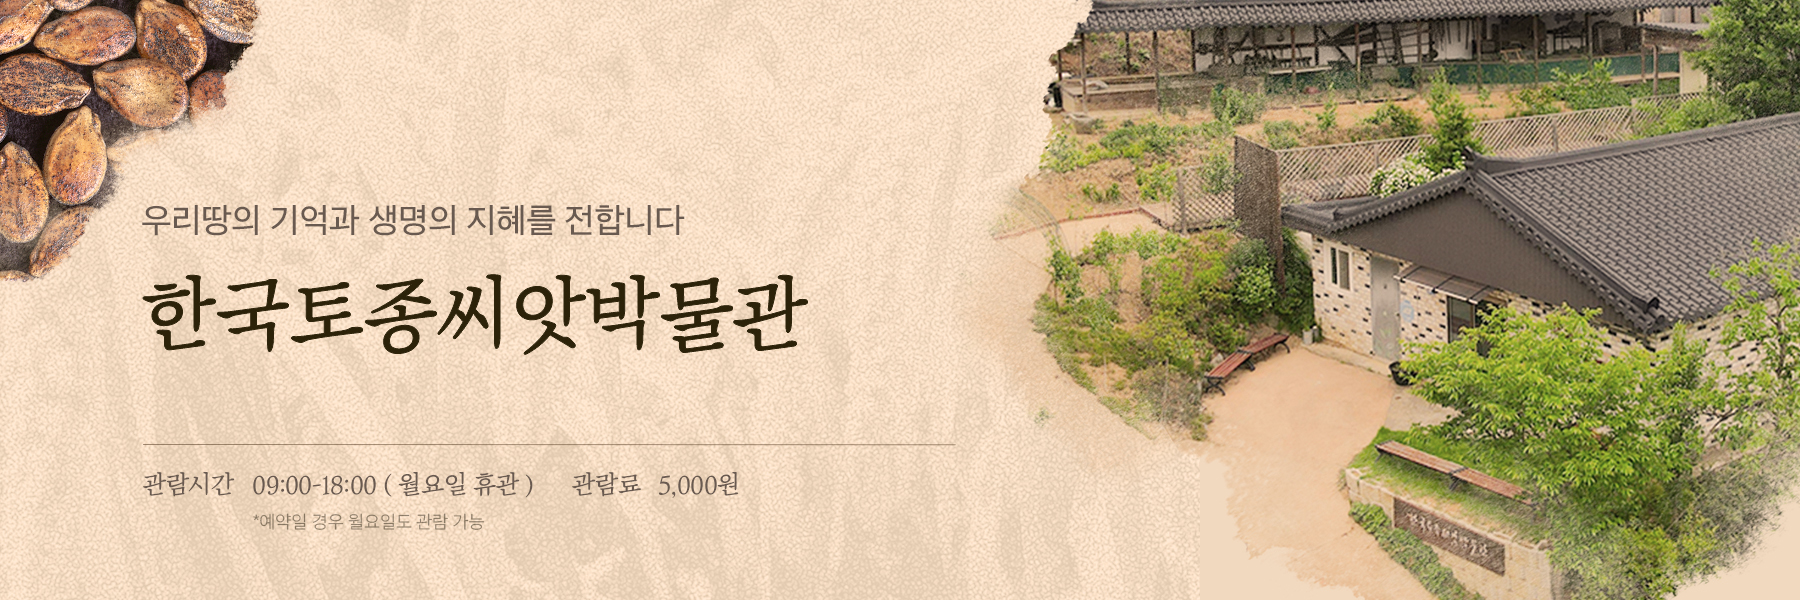
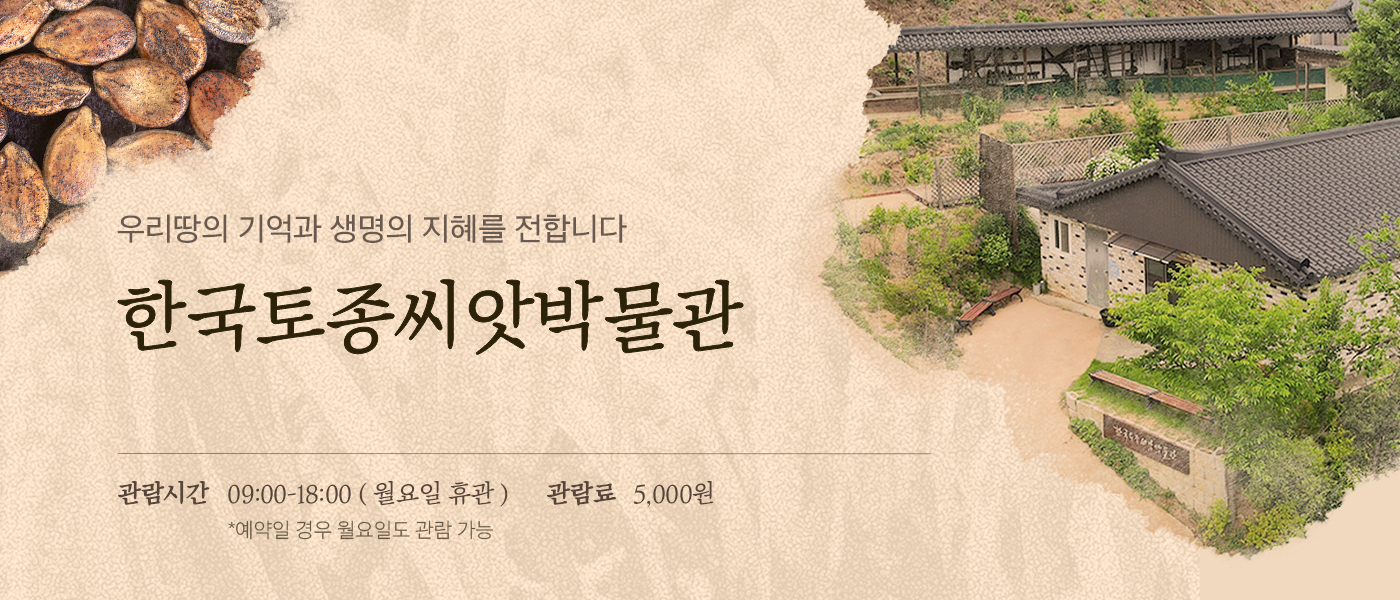
2026.01.06

diff --git a/src/components/layout/main/display.tsx b/src/components/layout/main/display.tsx
@@ -5,10 +5,11 @@ export const Display = () => {
     const navigate = useNavigate();
 
     const displayInfo = [
-        {src: '/display/display1.png', text1: '상설전시', text2: '씨앗 박물관 상설전시 1', text3: '2025-01-01 ~ 2025-12-31', link: 'pdisplay'},
-        {src: '/display/display2.png', text1: '상설전시', text2: '씨앗 박물관 상설전시 2', text3: '2025-04-01 ~ 2025-12-31', link: 'pdisplay'},
-        {src: '/display/display3.png', text1: '특별전시', text2: '씨앗 박물관 특별전시 3', text3: '2025-07-01 ~ 2025-12-31', link: 'sdisplay'},
-        {src: '/display/display3.png', text1: '특별전시', text2: '씨앗 박물관 특별전시 3', text3: '2025-07-01 ~ 2025-12-31', link: 'sdisplay'},
+        {src: '/display/1.jpg', text1: '상설전시', text2: '상설전시', text3: '', link: '/seed/pdisplay'},
+        {src: '/display/2.jpg', text1: '상설전시', text2: '근대 농기구 전시', text3: '', link: '/seed/fdisplay'},
+        {src: '/display/3.jpg', text1: '상설전시', text2: '박물관 속의 박물관', text3: '', link: '/seed/museum'},
+        {src: '/display/4.jpg', text1: '상설전시', text2: '영상관', text3: '', link: '/seed/video'},
+        {src: '/display/5.jpg', text1: '특별전시', text2: '특별전시', text3: '', link: '/seed/sdisplay'},
     ];
 
     return (
@@ -19,7 +20,8 @@ export const Display = () => {
                 display: 'flex',
                 columnGap: 10,
                 rowGap: 5,
-                flexWrap: 'wrap'
+                flexWrap: 'wrap',
+                p: 2
             }}>
                 {displayInfo.map((display, index) => (
                     <Stack
@@ -33,54 +35,44 @@ export const Display = () => {
                         <Box
                             component='img'
                             src={display.src}
-                            onClick={() => navigate(`/${display.link}`)}
+                            onClick={() => navigate(`${display.link}`)}
                             sx={{
-                                width: 315,
-                                height: 450,
+                                width: 400,
+                                height: 356,
                                 objectFit: 'fill',
                                 objectPosition: 'center',
                                 transition: 'transform 0.5s ease-in-out',
                                 cursor: 'pointer'
                             }}
                         />
-                        <Button
-                            variant='contained'
-                            sx={{
-                                fontSize: 'body1.fontSize',
-                                p: '2px',
-                                width: 90,
-                                backgroundColor: 'black',
-                                '&:hover': {
-                                    backgroundColor: '#222'
-                                }
-                            }}
-                        >
-                            {display.text1}
-                        </Button>
-                        <Stack
-                            key={index}
-                            direction='column'
-                            spacing={0.3}
-                            sx={{
-                                alignItems: 'left',
-                            }}
-                        >
-                            <Typography
-                                sx={{
-                                    fontWeight: 'bold',
-                                    fontSize: 'body1.fontSize',
-                                }}
+                            <Stack
+                                direction='row'
+                                spacing={2}
+                                alignItems='center'
                             >
-                                {display.text2}
-                            </Typography>
-                            <Typography
-                                sx={{
-                                    fontSize: 'body1.fontSize',
-                                }}
-                            >
-                                {display.text3}
-                            </Typography>
-                        </Stack>
+                                <Button
+                                    variant='contained'
+                                    sx={{
+                                        fontSize: 'body1.fontSize',
+                                        p: '2px',
+                                        width: 90,
+                                        backgroundColor: 'black',
+                                        '&:hover': {
+                                            backgroundColor: '#222'
+                                        }
+                                    }}
+                                >
+                                    {display.text1}
+                                </Button>
+                                <Typography
+                                    sx={{
+                                        fontWeight: 'bold',
+                                        fontSize: 'body1.fontSize',
+                                    }}
+                                >
+                                    {display.text2}
+                                </Typography>
+                            </Stack>
                     </Stack>
                 ))}
             </Box>

diff --git a/src/components/layout/main/banner.tsx b/src/components/layout/main/banner.tsx
@@ -2,20 +2,23 @@ import { Box, IconButton, Typography, useMediaQuery } from '@mui/material';
 import { createTheme, ThemeProvider } from '@mui/material/styles';
 import { ArrowBack, ArrowForward } from '@mui/icons-material';
 import { useState, useEffect } from 'react';
+import { useNavigate } from 'react-router-dom';
 
 const theme = createTheme();
 
 export const Banner = () => {
+    const navigate = useNavigate();
+
     const bannerImagesXs = [
-        '/banners/m_1.jpg',
-        '/banners/banner2.png',
-        '/banners/banner3.png',
+        {src: '/banners/m_1.jpg', link: ''},
+        {src: '/banners/m_2.jpg', link: '/seed/pdisplay'},
+        {src: '/banners/m_3.jpg', link: '/seed/fdisplay'},
     ];
 
     const bannerImagesDefault = [
-        '/banners/1.jpg',
-        '/banners/banner2.png',
-        '/banners/banner3.png',
+        {src: '/banners/1.jpg', link: ''},
+        {src: '/banners/2.jpg', link: '/seed/pdisplay'},
+        {src: '/banners/3.jpg', link: '/seed/fdisplay'},
     ];
 
     const isXs = useMediaQuery(theme.breakpoints.down('sm'));
@@ -84,7 +87,8 @@ export const Banner = () => {
                         <Box
                             key={index}
                             component="img"
-                            src={image}
+                            src={image.src}
+                            onClick={() => navigate(`${image.link}`)}
                             alt={`Banner ${index + 1}`}
                             sx={{
                                 width: `${100 / bannerImages.length}%`,

diff --git a/src/components/layout/tab2/museum/museum.tsx b/src/components/layout/tab2/museum/museum.tsx
@@ -404,7 +404,7 @@ const Museum = () => {
                 }}
             >
                 {[
-                    '/museum/4.jpg',
+                    '/museum/5.jpg',
                     '/museum/5.jpg',
                     '/museum/6.webp',
                     '/museum/7.jpg',
